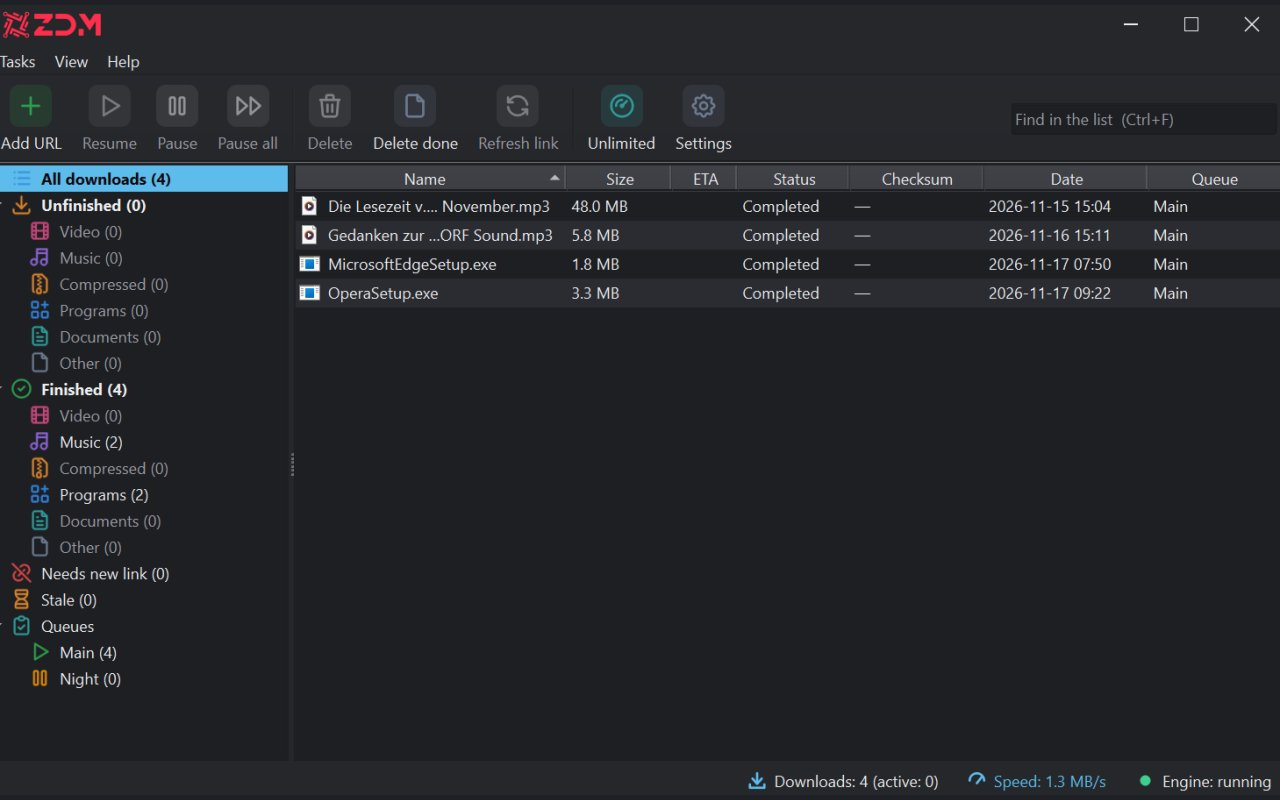
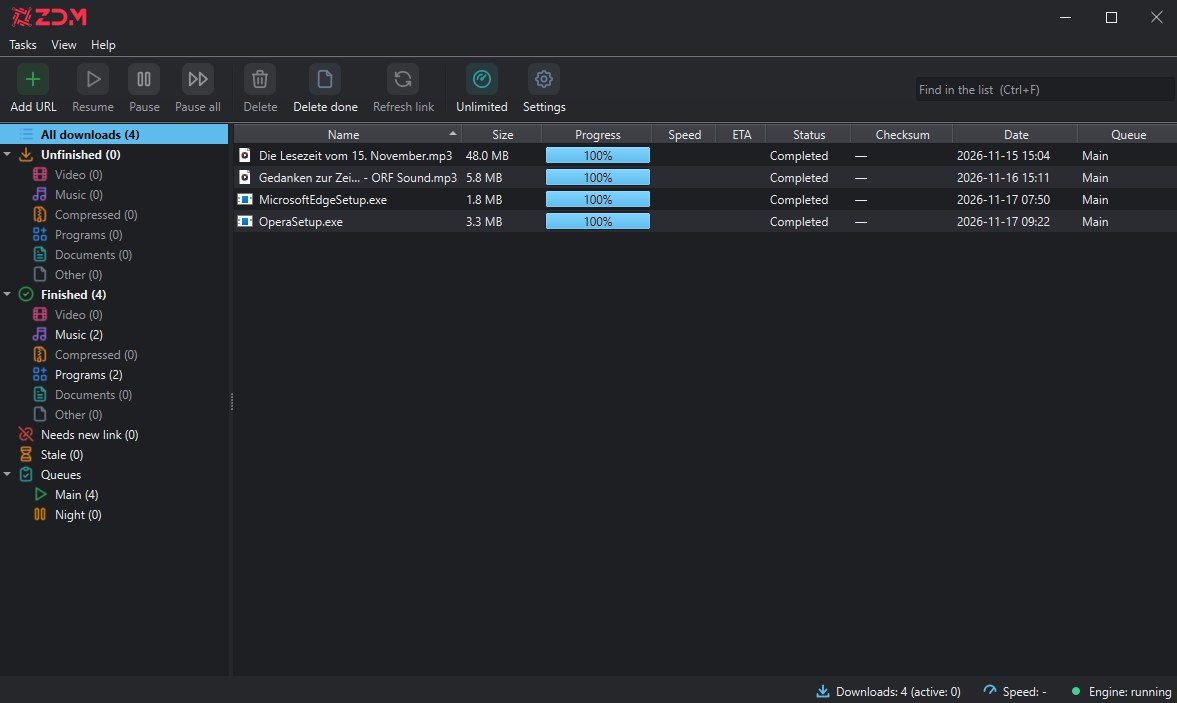
New captures (app, video, playlist, welcome) cut to the useful part by tools/make_images.py; playlists get their own block, 'Sorted by type' joins the list

diff --git a/index.html b/index.html
@@ -113,8 +113,6 @@
   .frame { margin: 0; border-radius: 16px; overflow: hidden; background: var(--ink); box-shadow: var(--key); }
   .frame img { display: block; width: 100%; height: auto; }
   .frame.crop img { aspect-ratio: 4 / 3; object-fit: cover; object-position: 0 0; }
-  .frame.zoom { aspect-ratio: 4 / 3; }
-  .frame.zoom img { height: 100%; object-fit: cover; transform: scale(1.6); transform-origin: 50% 36%; }
 
   /* ---- the rest: a quiet list, not a wall of cards */
   .rest { display: grid; grid-template-columns: 1fr; margin-top: 40px; border-top: 1px solid var(--line); }
@@ -215,7 +213,7 @@
   </div>
 
   <div class="stage wrap">
-    <div class="window reveal"><img data-shot="app" data-hero src="img/app.jpg" width="1280" height="800" alt=""></div>
+    <div class="window reveal"><img data-shot="app" src="img/app.jpg" width="1177" height="703" data-hero alt=""></div>
   </div>
 
   <section class="wrap">
@@ -227,7 +225,7 @@
         <h3><span lang="en">A button on every video</span><span lang="de">Eine Schaltfläche an jedem Video</span><span lang="ar">زر على كل فيديو</span></h3>
         <p><span lang="en">A small button sits on the player. Pick the quality, MP4 or MKV, or sound only. The size is shown before you download.</span><span lang="de">Eine kleine Schaltfläche sitzt am Player. Qualität wählen, MP4 oder MKV, oder nur den Ton. Die Größe sehen Sie vor dem Download.</span><span lang="ar">يظهر زر صغير على المشغّل. اختر الجودة، MP4 أو MKV، أو الصوت فقط. ويظهر الحجم قبل التنزيل.</span></p>
       </div>
-      <figure class="frame reveal"><img data-shot="video" src="img/video.jpg" width="1280" height="800" loading="lazy" alt=""></figure>
+      <figure class="frame reveal"><img data-shot="video" src="img/video.jpg" width="998" height="620" loading="lazy" alt=""></figure>
     </article>
 
     <article class="feature">
@@ -240,10 +238,18 @@
 
     <article class="feature">
       <div class="copy reveal">
+        <h3><span lang="en">Whole playlists, in order</span><span lang="de">Ganze Playlists, der Reihe nach</span><span lang="ar">قوائم تشغيل كاملة بالترتيب</span></h3>
+        <p><span lang="en">Open a YouTube playlist, choose one quality for all, tick the videos you want. They go into their own folder and their own queue, one after another.</span><span lang="de">Eine YouTube-Playlist öffnen, eine Qualität für alle wählen, die gewünschten Videos ankreuzen. Sie landen in einem eigenen Ordner und einer eigenen Warteschlange, eins nach dem anderen.</span><span lang="ar">افتح قائمة تشغيل يوتيوب، واختر جودة واحدة للجميع، وحدّد الفيديوهات التي تريدها. تُحفظ في مجلد خاص وقائمة انتظار خاصة، واحدًا بعد الآخر.</span></p>
+      </div>
+      <figure class="frame reveal"><img data-shot="playlist" src="img/playlist.jpg" width="728" height="601" loading="lazy" alt=""></figure>
+    </article>
+
+    <article class="feature">
+      <div class="copy reveal">
         <h3><span lang="en">Pause, resume, schedule</span><span lang="de">Pausieren, fortsetzen, planen</span><span lang="ar">إيقاف مؤقت واستئناف وجدولة</span></h3>
         <p><span lang="en">Stop any time and carry on later, even after a power cut. Sort downloads into queues, start them at a set time on the days you choose, and let ZDM shut the PC down when they finish.</span><span lang="de">Jederzeit anhalten und später weitermachen, sogar nach einem Stromausfall. Downloads in Warteschlangen sortieren, zu einer festen Zeit an gewählten Tagen starten und ZDM den PC herunterfahren lassen, wenn sie fertig sind.</span><span lang="ar">أوقف في أي وقت وأكمل لاحقًا، حتى بعد انقطاع الكهرباء. رتّب التنزيلات في قوائم انتظار، وابدأها في وقت محدد وفي الأيام التي تختارها، ودع ZDM يُطفئ الحاسوب عند الانتهاء.</span></p>
       </div>
-      <figure class="frame crop reveal"><img data-shot="app" src="img/app.jpg" width="1280" height="800" loading="lazy" alt=""></figure>
+      <figure class="frame crop reveal"><img data-shot="app" src="img/app.jpg" width="1177" height="703" loading="lazy" alt=""></figure>
     </article>
 
     <article class="feature">
@@ -251,14 +257,14 @@
         <h3><span lang="en">Your browser hands downloads to ZDM</span><span lang="de">Ihr Browser übergibt Downloads an ZDM</span><span lang="ar">متصفحك يسلّم التنزيلات إلى ZDM</span></h3>
         <p><span lang="en">Chrome, Edge and Firefox pass their downloads on. The extension talks only to the app on your own computer, and sites with DRM protection are refused at once.</span><span lang="de">Chrome, Edge und Firefox geben ihre Downloads weiter. Die Erweiterung spricht nur mit der App auf Ihrem eigenen Computer, und Seiten mit DRM-Schutz werden sofort abgelehnt.</span><span lang="ar">تمرّر Chrome وEdge وFirefox تنزيلاتها. تتحدث الإضافة فقط مع التطبيق على حاسوبك أنت، وتُرفض المواقع المحمية بتقنية DRM فورًا.</span></p>
       </div>
-      <figure class="frame zoom reveal"><img data-shot="welcome" src="img/welcome.jpg" width="1280" height="800" loading="lazy" alt=""></figure>
+      <figure class="frame reveal"><img data-shot="welcome" src="img/welcome.jpg" width="768" height="397" loading="lazy" alt=""></figure>
     </article>
 
     <div class="rest reveal">
       <div><b><span lang="en">Faster downloads</span><span lang="de">Schnellere Downloads</span><span lang="ar">تنزيلات أسرع</span></b>
         <span class="d"><span lang="en">Every file in several parts at once, so a slow line is used to the full.</span><span lang="de">Jede Datei in mehreren Teilen gleichzeitig, damit auch eine langsame Leitung voll genutzt wird.</span><span lang="ar">كل ملف على عدة أجزاء في وقت واحد، فيُستفاد من الخط البطيء إلى أقصى حد.</span></span></div>
-      <div><b><span lang="en">Playlists</span><span lang="de">Playlists</span><span lang="ar">قوائم التشغيل</span></b>
-        <span class="d"><span lang="en">Tick the videos you want from a YouTube playlist; they go into their own folder, in order.</span><span lang="de">Die gewünschten Videos einer YouTube-Playlist ankreuzen; sie landen in einem eigenen Ordner, der Reihe nach.</span><span lang="ar">حدّد الفيديوهات التي تريدها من قائمة تشغيل يوتيوب؛ تُحفظ في مجلد خاص بها بالترتيب.</span></span></div>
+      <div><b><span lang="en">Sorted by type</span><span lang="de">Nach Typ sortiert</span><span lang="ar">مرتّبة حسب النوع</span></b>
+        <span class="d"><span lang="en">Finished files go to Video, Music, Compressed, Programs or Documents, by their type.</span><span lang="de">Fertige Dateien kommen je nach Typ in Video, Musik, Komprimiert, Programme oder Dokumente.</span><span lang="ar">تذهب الملفات المكتملة إلى فيديو أو موسيقى أو مضغوطة أو برامج أو مستندات حسب نوعها.</span></span></div>
       <div><b><span lang="en">Speed limit</span><span lang="de">Geschwindigkeitsbegrenzung</span><span lang="ar">تحديد السرعة</span></b>
         <span class="d"><span lang="en">Cap the whole app or each download, so your line stays free for everything else.</span><span lang="de">Die ganze App oder jeden Download begrenzen, damit Ihre Leitung für alles andere frei bleibt.</span><span lang="ar">حدّد سرعة التطبيق كله أو كل تنزيل، ليبقى خطك متاحًا لبقية استخداماتك.</span></span></div>
       <div><b><span lang="en">Links from the clipboard</span><span lang="de">Links aus der Zwischenablage</span><span lang="ar">روابط من الحافظة</span></b>

diff --git a/tools/make_images.py b/tools/make_images.py
@@ -1,6 +1,6 @@
 r"""Swaps the page's screenshots in one step.
 
-Put your full-resolution captures in img/raw/ named app, video, audio and welcome (.png, .jpg or .webp), then run
+Put your full-resolution captures in img/raw/ named app, video, audio, playlist and welcome (.png, .jpg or .webp), then run
 
     python tools/make_images.py            (needs Pillow: pip install pillow)
 
@@ -9,8 +9,8 @@ that is wider than 1280 px, img/<name>-1280.jpg for ordinary screens. Then it up
 file, the real width and height (so the page does not jump while it loads) and a srcset, so each screen takes the smaller or the larger file.
 A name with no capture in img/raw/ is left as it is. img/raw/ is not committed (.gitignore); the generated files are.
 
-Which screenshot is where: app = the app window (the hero, and the pause/resume block, a crop of its top left), video = the button on a video,
-audio = an audio page, welcome = the extension's welcome page (zoomed in by CSS, the class "zoom" in index.html).
+Which screenshot is where: app = the app window (the hero, and the pause/resume block, which shows its top left through CSS: class "crop"), video = the button on a video,
+audio = an audio page, playlist = the playlist window, welcome = the extension's welcome page. CROPS (below) says which part of a capture is kept.
 """
 from __future__ import annotations
 
@@ -21,9 +21,16 @@ from pathlib import Path
 
 from PIL import Image
 
-NAMES = ("app", "video", "audio", "welcome")
+NAMES = ("app", "video", "audio", "playlist", "welcome")
 MAX_WIDTH = 2560
 SMALL = 1280
+# Where the picture is the whole screen but the point is a part of it: the part to keep, as fractions (left, top, right, bottom) of the capture.
+# Cut from the capture's own pixels (never scaled up), so the part stays sharp. Change a number here, run the tool again.
+CROPS = {
+    "video": (0.18, 0.16, 0.70, 0.76),     # the ZDM button and its quality menu, with a bit of the player around them
+    "playlist": (0.31, 0.17, 0.69, 0.75),  # the playlist window
+    "welcome": (0.30, 0.07, 0.70, 0.45),   # the welcome page's own content (without the browser's address bar)
+}
 SIZES_HERO = "(min-width: 1128px) 1080px, 100vw"
 SIZES_BLOCK = "(min-width: 900px) 640px, 100vw"
 
@@ -73,6 +80,9 @@ def main() -> int:
             print(f"{name}: no capture in img/raw/, left as it is")
             continue
         image = Image.open(source).convert("RGB")
+        if name in CROPS:
+            left, top, right, bottom = CROPS[name]
+            image = image.crop((round(left * image.width), round(top * image.height), round(right * image.width), round(bottom * image.height)))
         big = save(image, site / "img" / f"{name}.jpg", MAX_WIDTH)
         small = save(image, site / "img" / f"{name}-{SMALL}.jpg", SMALL) if image.width > SMALL else None
         if small is None:
